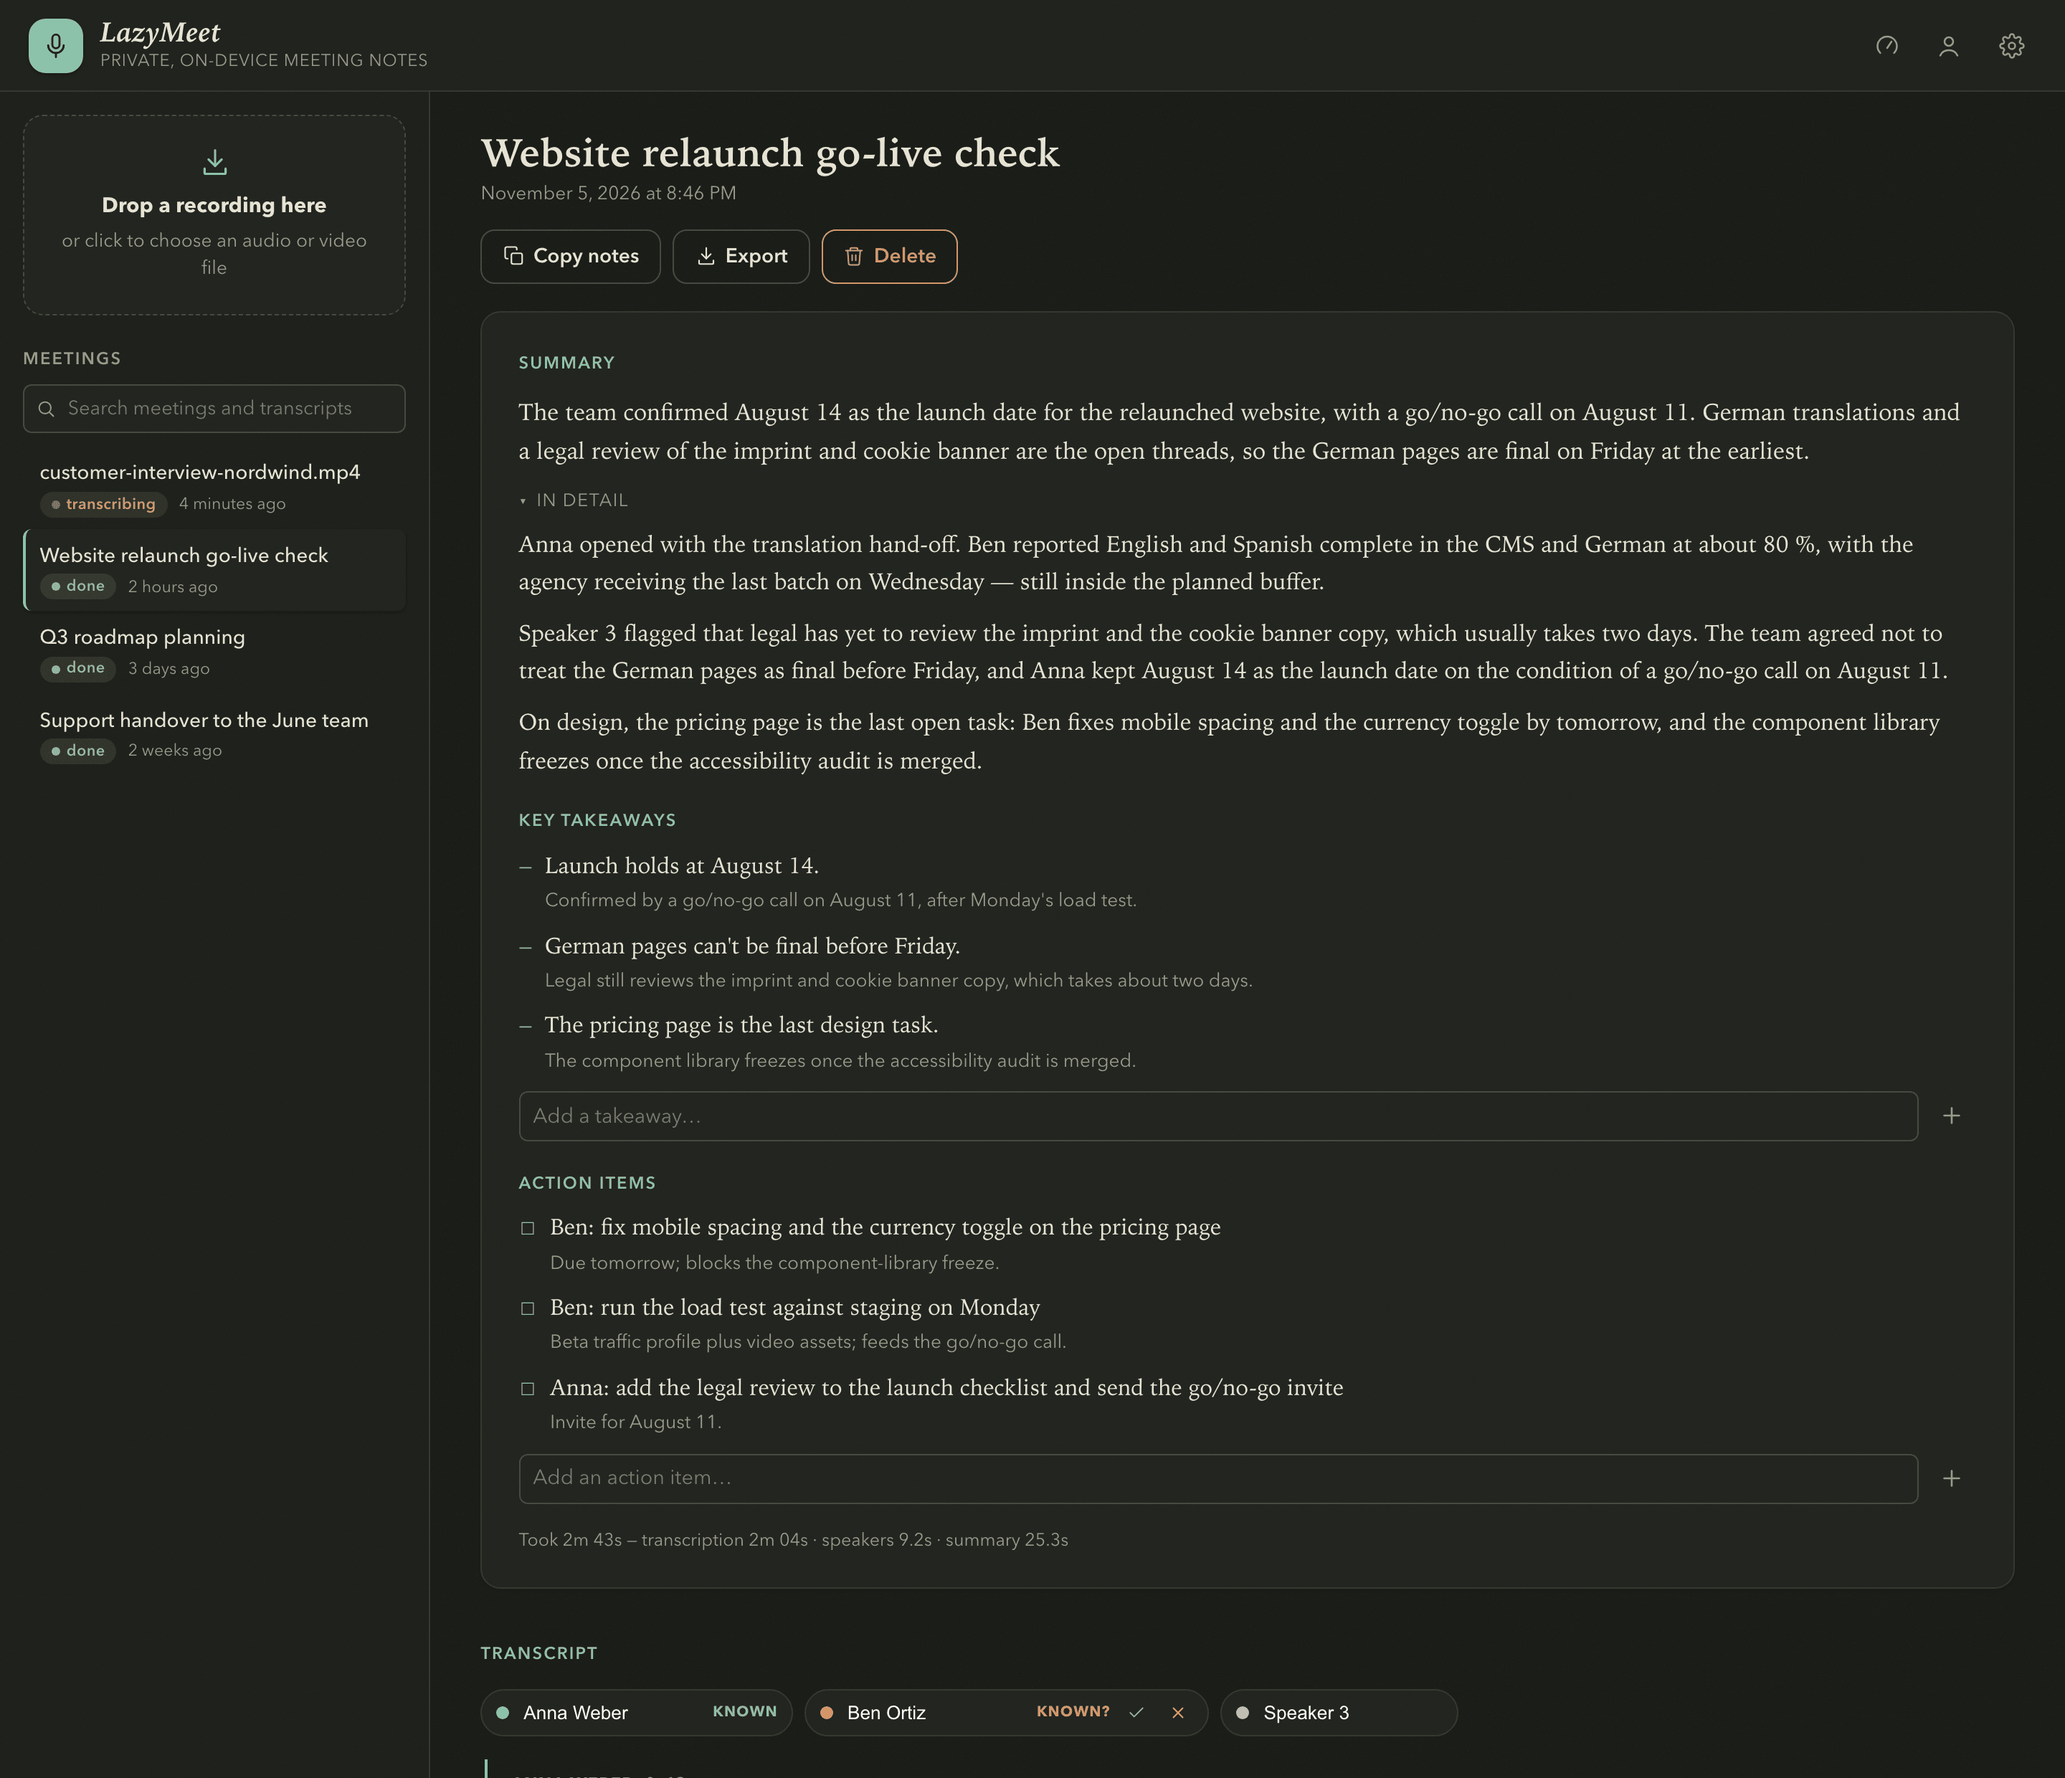
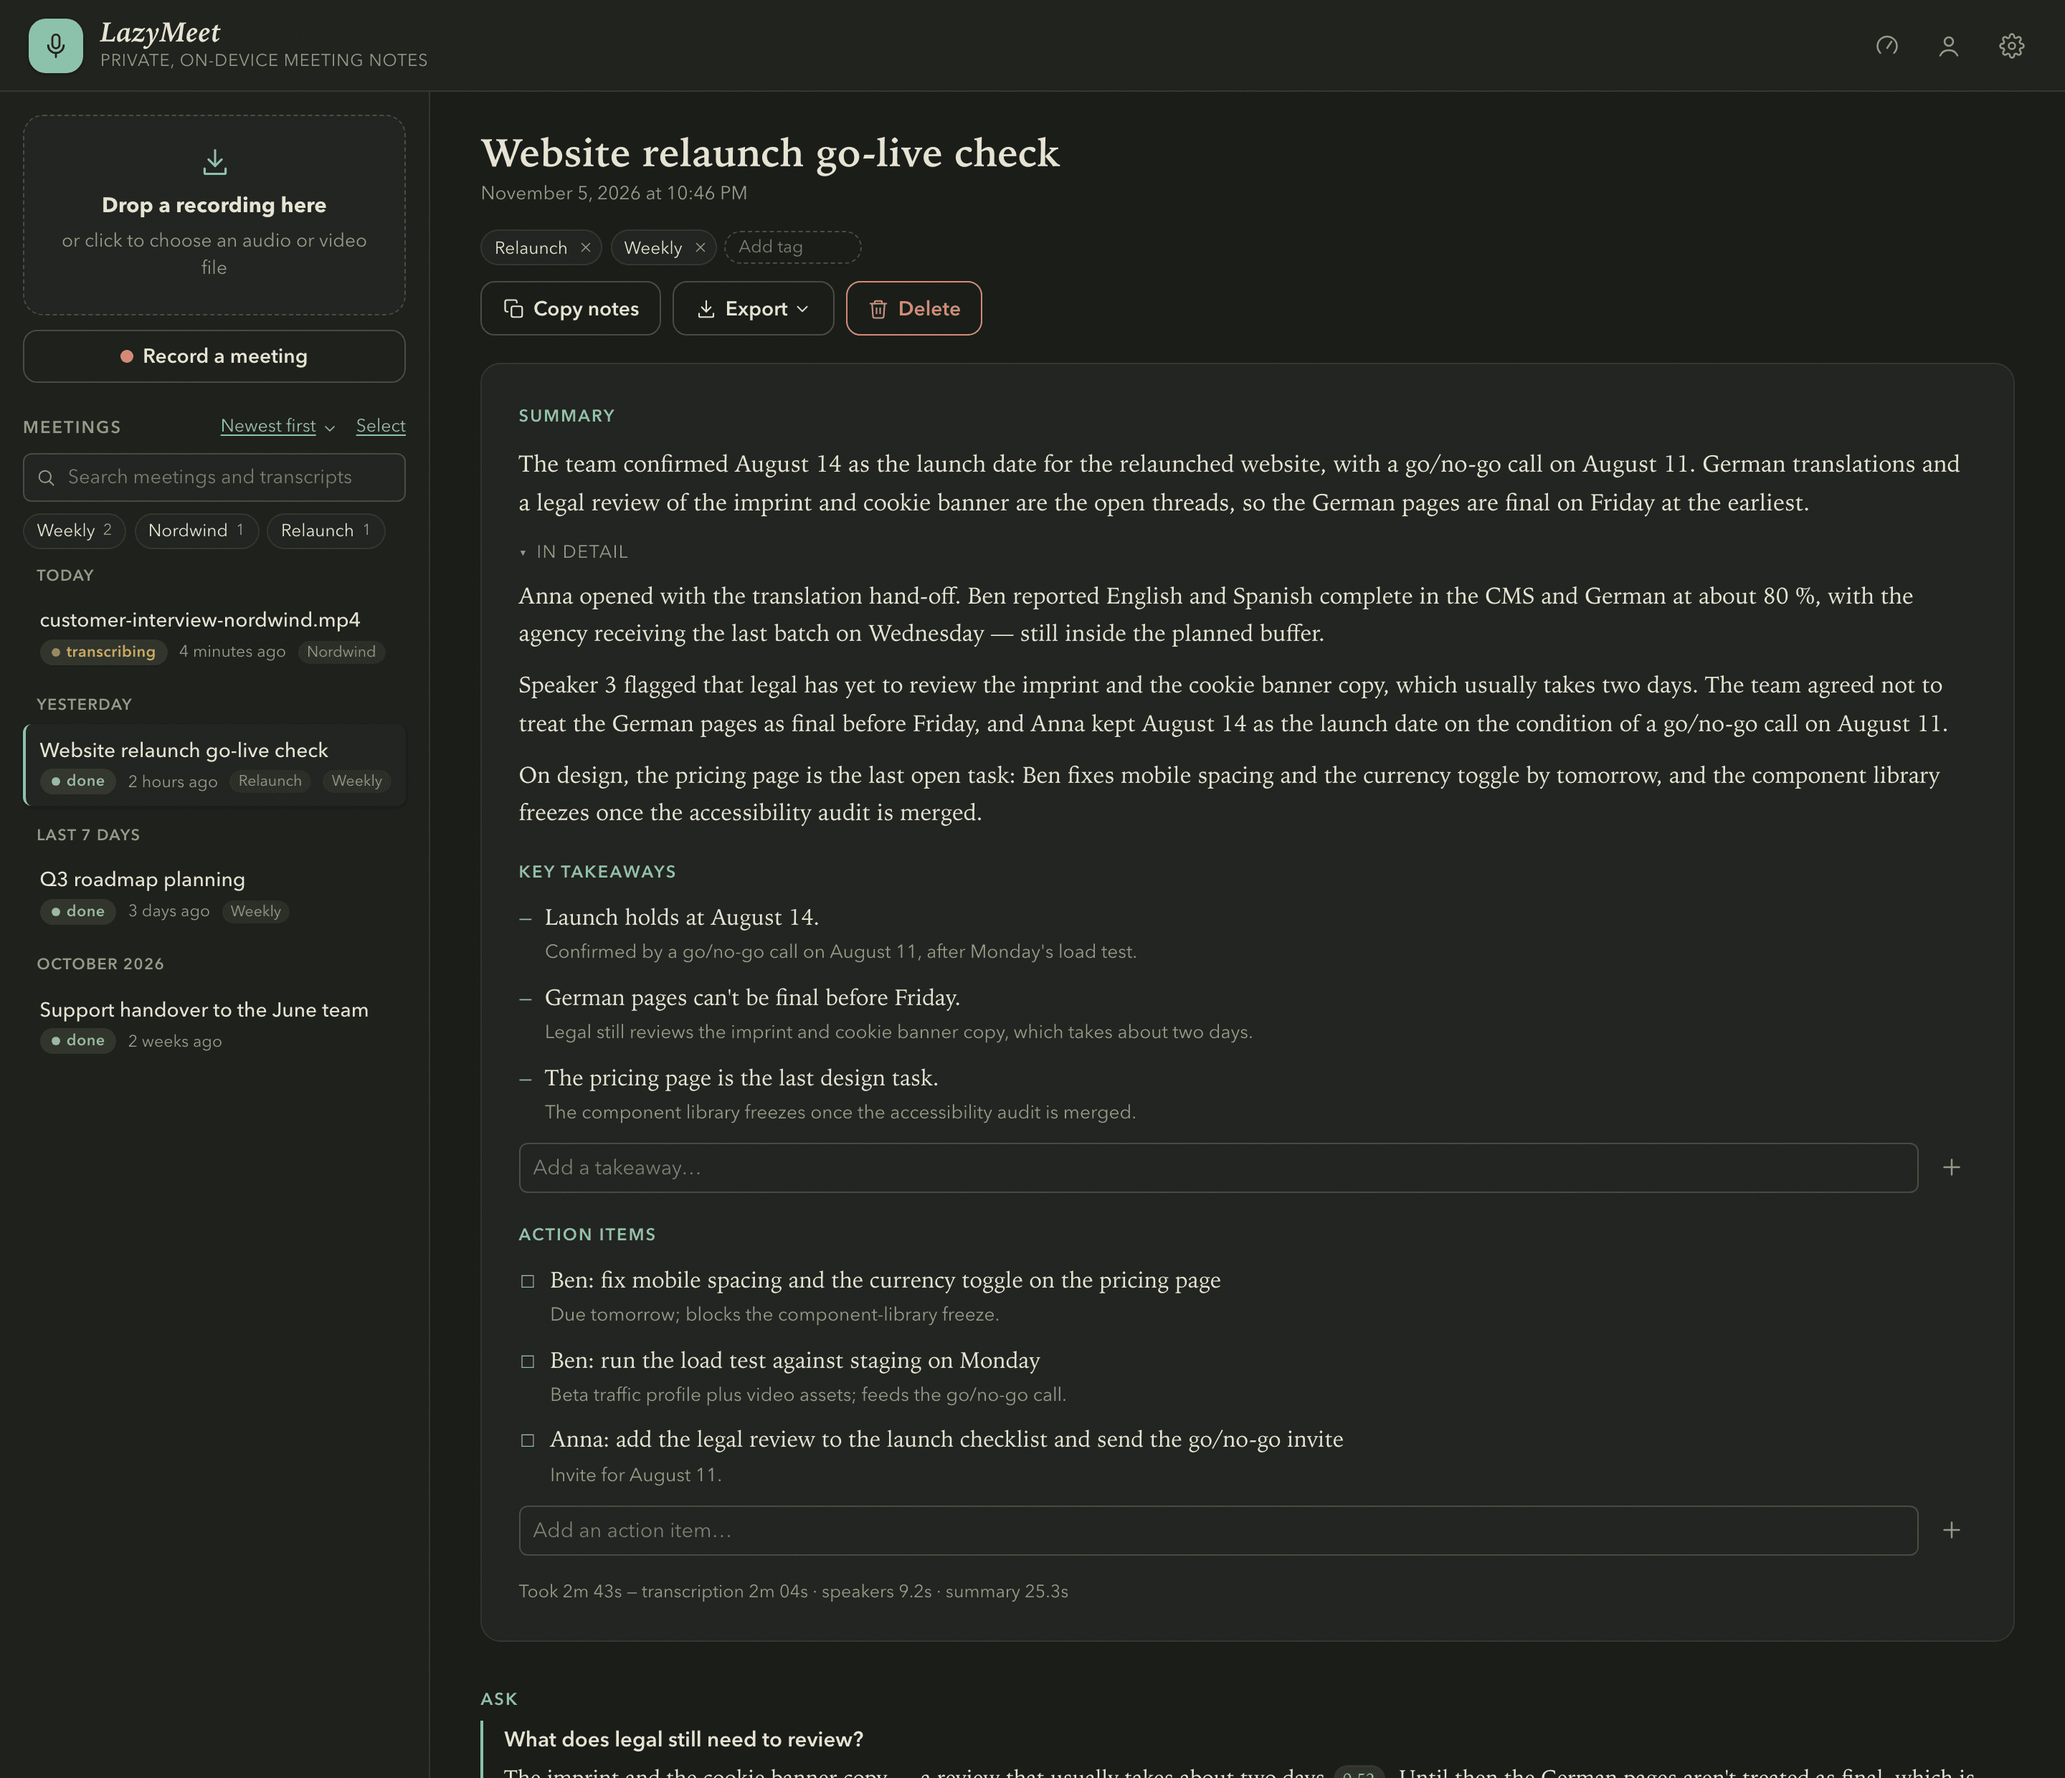
docs: README and screenshots for v0.2.0 — recording, ask, tags, exports

diff --git a/frontend/smoke/docs.ts b/frontend/smoke/docs.ts
@@ -56,6 +56,13 @@ export function docsMeeting() {
     has_audio: false,
     versions: [],
     asr_model: "parakeet-tdt-0.6b-v3",
+    qa: [
+      {
+        q: "What does legal still need to review?",
+        a: "The imprint and the cookie banner copy — a review that usually takes about two days [0:52]. Until then the German pages aren't treated as final, which is why Anna wants a go/no-go call on the 11th [1:15].",
+        at: ago(30),
+      },
+    ],
   };
 }
 

diff --git a/README.md b/README.md
@@ -3,10 +3,13 @@
 [![Build](https://github.com/krecks/LazyMeet/actions/workflows/build.yml/badge.svg)](https://github.com/krecks/LazyMeet/actions/workflows/build.yml)
 [![License: GPL v3](https://img.shields.io/badge/License-GPLv3-blue.svg)](LICENSE)
 
-**Local, private meeting transcription & summaries.** Drag and drop a recording
-(e.g. an OBS capture) and get a **per-speaker transcript**, **notes** (a short
-and a detailed summary, key takeaways, action items) and a **meeting title** —
-everything runs on your machine. No cloud, no accounts, **no API keys**.
+**Local, private meeting transcription & summaries.** Record a meeting in the
+app — your microphone and the call's audio — or drop in a recording (an OBS
+capture, say) and get a **per-speaker transcript**, **notes** (a short and a
+detailed summary, key takeaways, action items) and a **meeting title**. Then
+**ask questions** about one meeting or all of them, tag and search them, and
+export to Word, PDF, subtitles or Markdown. Everything runs on your machine.
+No cloud, no accounts, **no API keys**.
 
 Speaker identification is built in: name a speaker once and that name
 **auto-applies to the same voice in future recordings**, backed by a local
@@ -14,7 +17,7 @@ voiceprint library that learns from every confirmed match.
 
 <picture>
   <source media="(prefers-color-scheme: dark)" srcset="docs/screenshots/meeting-dark.png">
-  <img alt="LazyMeet showing a finished meeting with a generated title: summary with an In detail section, key takeaways and action items each with a detail line, the per-stage timings, and a per-speaker transcript with recognized-speaker badges" src="docs/screenshots/meeting-light.png">
+  <img alt="LazyMeet showing a finished meeting with a generated title and tags: the sidebar with Record a meeting, tag filters and date groups; the summary with an In detail section, key takeaways and action items each with a detail line, and the per-stage timings" src="docs/screenshots/meeting-light.png">
 </picture>
 
 ## How it works
@@ -61,9 +64,10 @@ the spoken language, so it needs one set (in Settings or per recording):
    (`.dmg`/`.app`, `.msi`/`.exe`, or `.AppImage`/`.deb`).
 2. Launch **LazyMeet**. On first run it downloads the AI models (a few GB) with a
    progress screen — this happens once.
-3. Drag a recording onto the window. Watch the stages, then read the transcript
-   and summary. Rename `Speaker 1/2/3` to real names; those names are remembered
-   and auto-applied to the same voices next time.
+3. Click **Record a meeting**, or drag one or more recordings onto the window.
+   Watch the stages, then read the transcript and summary. Rename
+   `Speaker 1/2/3` to real names; those names are remembered and auto-applied
+   to the same voices next time.
 
 Each meeting's notes have a short and a long form: a 2-3 sentence summary plus
 an expandable **In detail** narrative, and key takeaways and action items that
@@ -72,8 +76,33 @@ Everything is editable, and the notes can be regenerated with another model
 without re-transcribing. The same model names the meeting ("Q3 pricing review
 with Acme" rather than `2026-04-24 12-29-55.mkv`) unless you renamed it.
 
+The notes can be written for a **kind of meeting** — general, one-on-one,
+stand-up, interview, lecture or talk, sales or customer call — and in any
+supported **language**, whatever language was spoken: pick both on the prepare
+screen, change them later with **Regenerate notes**, or set the defaults in
+Settings. **Names and terms** you list in Settings (people, products, jargon)
+are spelled exactly in the notes and titles even where the transcript misheard
+them.
+
 You install nothing else — ffmpeg, the models, and the LLM are all bundled or
 auto-downloaded.
+
+## Record a meeting
+
+**Record a meeting** (under the dropzone) records your microphone and the
+computer's own audio — the other people on a Zoom, Teams or Meet call — into
+one file, with a level meter for each. **Stop** opens the prepare screen, so
+the chatter before the meeting can be cut. System audio uses Core Audio taps on
+macOS 14.6+ (macOS asks once for permission to record system audio), WASAPI
+loopback on Windows and the PulseAudio/PipeWire monitor of the default output
+on Linux; where it isn't available the microphone still records. A recording
+interrupted by a crash or never transcribed is offered again under the
+dropzone.
+
+Already recording with OBS? Point the **watch folder** (Settings → Data) at
+OBS's recording folder: every new recording is transcribed on its own once OBS
+has finished writing it. Files that were in the folder before are left alone,
+and the `.mp4` OBS remuxes from an `.mkv` isn't imported twice.
 
 ## Prepare a recording before transcribing
 
@@ -83,9 +112,44 @@ the waveform to skip a break or transcribe only the segments that matter. You
 can also fix the number of speakers and hint the spoken language. The whole
 file is preselected, so the fast path stays a single click on **Transcribe**.
 On a wide window, recordings with video show the picture beside the segment
-list; audio files keep a full-width player above the waveform.
+list; audio files keep a full-width player above the waveform. Drop or pick
+several files at once and they are prepared one after another — or queued
+whole with **Transcribe all**.
 
 ![The prepare screen for an audio file: player, a zoomable waveform with a break cut out, and two selected time ranges](docs/screenshots/prepare.png)
+
+## Ask your meetings
+
+Under the notes, **Ask** answers questions about the meeting from its
+transcript — "What did we decide about the launch date?", "What does Ben owe
+legal?" — with the same on-device model that writes the notes. Answers cite
+the moments they come from (`[12:34]`); click one to jump there and play it.
+The questions and answers stay with the meeting. In the search results, **Ask
+across meetings** answers the search text from all your meetings and links
+each point to the meeting and moment it comes from.
+
+<picture>
+  <source media="(prefers-color-scheme: dark)" srcset="docs/screenshots/ask-dark.png">
+  <img alt="The Ask block under a meeting's notes: the question 'What does legal still need to review?' answered in two sentences with clickable 0:52 and 1:15 times, above the transcript whose speaker chips show each person's talk time" src="docs/screenshots/ask-light.png">
+</picture>
+
+A transcript that fits the model's context is read whole; for longer ones (and
+across meetings) the parts that best match the question are picked. Answers
+take about 10–30 s on Apple Silicon, depending on the summary model and the
+length of the meeting.
+
+## Organize, edit and export
+
+- **Tags** on each meeting; filter the sidebar by tag, search finds them too.
+- The sidebar groups meetings by date and sorts by date, title or length.
+  ⌘/Ctrl-click and Shift-click (or **Select**) pick several meetings to tag,
+  export or delete at once.
+- The speaker legend shows how long each person talked.
+- In the transcript editor, **Split at cursor** and **Merge with next** fix
+  segments that diarization cut in the wrong place.
+- **Export** a meeting as Markdown, Word, PDF, plain text, SRT or WebVTT
+  subtitles (with speaker names), or JSON; several meetings export into a
+  folder, one file each.
 
 ## Speaker naming across files
 
@@ -170,12 +234,16 @@ video itself never sticks around. Turn **Keep recording audio** off in Settings
 (or set `LAZYMEET_KEEP_AUDIO=0`) to delete each recording as soon as
 processing finishes instead.
 
+Recordings made in the app are written to a `recordings` folder in the same
+place and moved into the meeting once you transcribe them. Questions are
+answered by the local summary model; nothing is sent anywhere.
+
 ## Development / building from source
 
 Requirements: Rust (stable) + Tauri CLI (`cargo install tauri-cli --version
 "^2"`), Node.js (the frontend is bundled by Vite — run `npm ci` once),
 cmake (llama.cpp builds from source), and the platform webview libs
-(Linux: `libwebkit2gtk-4.1-dev`). sherpa-onnx links the prebuilt static
+(Linux: `libwebkit2gtk-4.1-dev`, plus `libasound2-dev` for recording). sherpa-onnx links the prebuilt static
 libraries of its GitHub release, which its build script downloads on the
 first build; to build offline, put that archive in a directory and point
 `SHERPA_ONNX_ARCHIVE_DIR` at it.
@@ -238,7 +306,7 @@ Tauri API stubbed out and boots it headlessly to assert the first-run state,
 the prepare screen, settings and the meeting notes.
 
 The README screenshots come from the same smoke bundle (`npm run
-build:smoke`, serve `frontend/dist-smoke/`), opened at `#meeting`, `#docs`
+build:smoke`, serve `frontend/dist-smoke/`), opened at `#meeting` (also scrolled to the Ask block), `#docs`
 (Settings) and `#docs-prepare` at 1440 px wide, 2× scale; the content lives in
 `frontend/smoke/docs.ts`.
 
@@ -261,6 +329,9 @@ Environment variables (all optional):
 | `LAZYMEET_MIN_SPEAKER_SECONDS` | `15` | Classic diarizer only: speakers with less speech fold into the closest main voice |
 | `LAZYMEET_NUM_THREADS` | auto (75 % of cores) | ONNX/LLM CPU threads; `0` = auto |
 | `LAZYMEET_ASR_URL` / `LAZYMEET_LLM_URL` / … | release URLs | Override model downloads |
+| `LAZYMEET_WATCH_DIR` | unset | A folder whose new recordings are imported on their own |
+| `LAZYMEET_NOTES_TEMPLATE` | `general` | Default kind of meeting for the notes: `general`, `one_on_one`, `standup`, `interview`, `lecture`, `sales` |
+| `LAZYMEET_VOCABULARY` | unset | Names and terms (one per line) the notes and titles must spell exactly |
 | `LAZYMEET_KEEP_AUDIO` | `1` | `1` = keep only the audio track for playback (video files are deleted after processing); `0` = delete recordings entirely (disables segment playback) |
 | `LAZYMEET_FAKE` | unset | `1` = stubbed pipeline for dev/tests |
 
